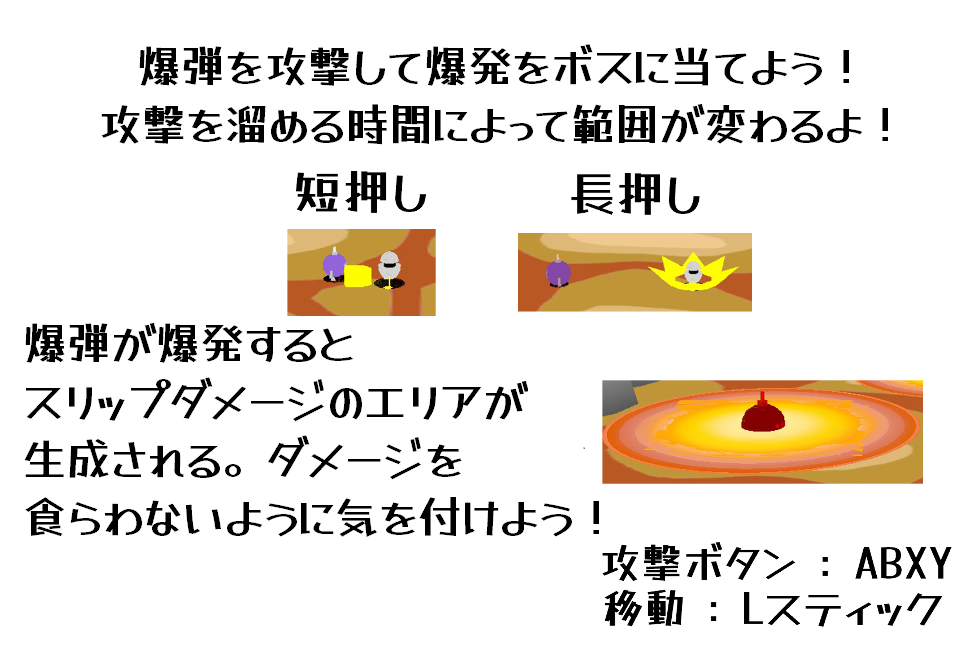
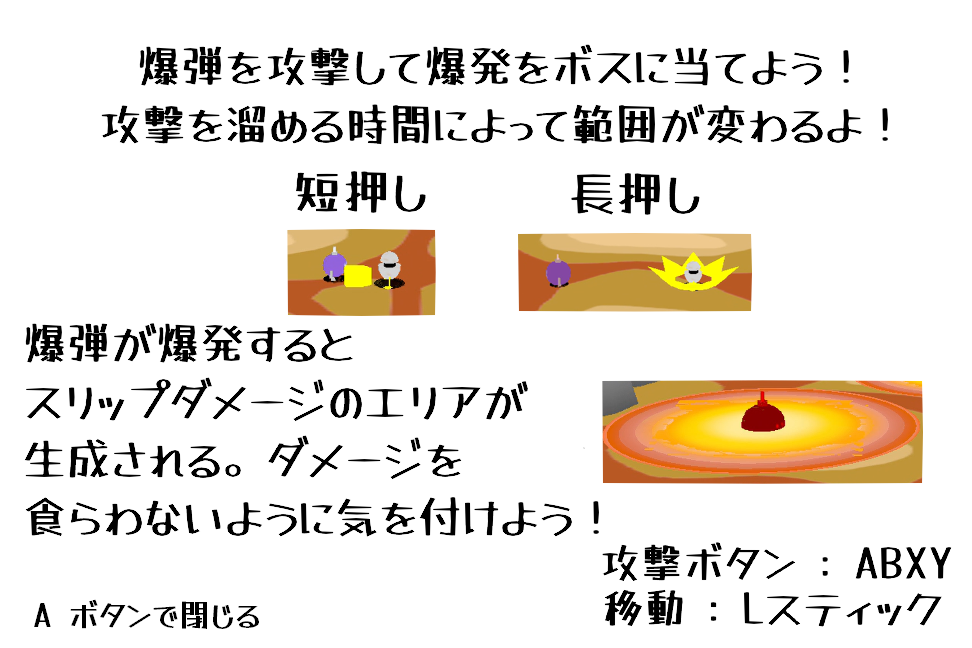
チュートリアルできた！

diff --git a/project/application/scene/PlayScene.cpp b/project/application/scene/PlayScene.cpp
@@ -4,8 +4,8 @@
 #include "InputManager.h"
 
 PlayScene::PlayScene (CameraOrganizer* camera, InputManager* inputManager, DxCommon* dxCommon) {
-	player_ = std::make_unique<Player>(inputManager, dxCommon);
-	boss_ = std::make_unique<Boss>(dxCommon, player_.get());
+	player_ = std::make_unique<Player> (inputManager, dxCommon);
+	boss_ = std::make_unique<Boss> (dxCommon, player_.get ());
 
 	//地面のモデル
 	ground_ = std::make_unique<Model> (dxCommon);
@@ -27,22 +27,26 @@ PlayScene::PlayScene (CameraOrganizer* camera, InputManager* inputManager, DxCom
 	//天球
 	skydome_ = std::make_unique<Model> (dxCommon);
 
+	//チュートリアル
+	tutorial_ = std::make_unique<Sprite> (dxCommon);
+	TextureManager::GetInstance ()->LoadTexture ("Resources/UI/tutorial.png", "tutorial");
+
 	camera_ = camera;
 	input_ = inputManager;
-	enemies_ = std::make_unique<EnemyManager>(dxCommon);
-	collisionManager_ = std::make_unique<CollisionManager>();
+	enemies_ = std::make_unique<EnemyManager> (dxCommon);
+	collisionManager_ = std::make_unique<CollisionManager> ();
 }
 
 PlayScene::~PlayScene () {
-	
+
 }
 
 void PlayScene::Initialize () {
 	nowScene_ = SceneLabel::Play;
 	isFinish_ = false;
-	player_->Initialize();
-	player_->ResetData();
-	boss_->Initialize();
+	player_->Initialize ();
+	player_->ResetData ();
+	boss_->Initialize ();
 
 	//地面のモデル
 	ground_->SetModelData ("ground");
@@ -89,67 +93,85 @@ void PlayScene::Initialize () {
 	skydome_->Initialize ();
 	skydome_->IsLighting (LightReflectionModel::HalfLambert);
 
+	tutorial_->SetID ("tutorial");
+	tutorial_->Initialize ({ 148.0f, 42.0f, 0.0f });
+	tutorial_->SetTexture ("tutorial");
+
 	camera_->AddCamera ("FollowCamera", CameraType::FollowCamera);
 	camera_->SetActiveCamera ("FollowCamera");
 	camera_->SetFollowTarget ("FollowCamera", player_->GetTransform ());
 
-	enemies_->Initialize(player_.get(), boss_.get());
+	enemies_->Initialize (player_.get (), boss_.get ());
 
-	bgm_.Initialize();
-	bgmHandle_ = bgm_.LoadSound("resources/Audio/BGM/Game.mp3");
-	bgm_.PlaySoundW(bgmHandle_, true);
+	tutorialFlag_ = true;
+
+	bgm_.Initialize ();
+	bgmHandle_ = bgm_.LoadSound ("resources/Audio/BGM/Game.mp3");
+	bgm_.PlaySoundW (bgmHandle_, true);
 }
 
 void PlayScene::Update () {
-	boss_->ImGuiControl();
-	player_->Update(camera_->GetVPMatrix());
-	boss_->Update(camera_->GetVPMatrix());
+	if (input_->GetRawInput ()->Trigger (VK_SPACE) || input_->GetGamePad()->TriggerButton(Button::A)){
+		tutorialFlag_ = false;
+	}
+
+	if (!tutorialFlag_) {
+		boss_->ImGuiControl ();
+		player_->Update (camera_->GetVPMatrix ());
+		boss_->Update (camera_->GetVPMatrix ());
+		enemies_->SetPos ({ boss_->GetPosition ().x,0.0f,boss_->GetPosition ().z });
+		enemies_->Update (camera_->GetVPMatrix ());
+
+		// [ 当たり判定 ]
+		collisionManager_->Begin ();
+		collisionManager_->SetColliders (&player_->GetAttackCollider ());
+		collisionManager_->SetColliders (&player_->GetPlayerBodyCollider ());
+		for (const auto& enemy : enemies_->GetEnemies ()) {
+			collisionManager_->SetColliders (&enemy->GetAttackCollider ());
+			collisionManager_->SetColliders (&enemy->GetBodyCollider ());
+		}
+		for (Collider* attackCollider : boss_->GetAttackColliders ()) {
+			collisionManager_->SetColliders (attackCollider);
+		}
+		collisionManager_->SetColliders (boss_->GetBodyCollider ());
+		collisionManager_->CheckAllCollisions ();
+
+		if (player_->GetIsDead ()) {
+			nextScene_ = SceneLabel::Gameover;
+			isFinish_ = true;
+			bgm_.StopSound (bgmHandle_);
+		}
+
+		if (boss_->GetClear ()) {
+			nextScene_ = SceneLabel::Clear;
+			isFinish_ = true;
+			bgm_.StopSound (bgmHandle_);
+		}
+	}
 	ground_->Update (camera_->GetVPMatrix ());
 	mountain_->Update (camera_->GetVPMatrix ());
 	stone_->Update (camera_->GetVPMatrix ());
 	stone2_->Update (camera_->GetVPMatrix ());
 	stone3_->Update (camera_->GetVPMatrix ());
 	skydome_->Update (camera_->GetVPMatrix ());
-	enemies_->SetPos ({ boss_->GetPosition ().x,0.0f,boss_->GetPosition ().z });
-	enemies_->Update(camera_->GetVPMatrix ());
-
-	// [ 当たり判定 ]
-	collisionManager_->Begin();
-	collisionManager_->SetColliders(&player_->GetAttackCollider());
-	collisionManager_->SetColliders(&player_->GetPlayerBodyCollider());
-	for (const auto& enemy : enemies_->GetEnemies()) {
-		collisionManager_->SetColliders(&enemy->GetAttackCollider());
-		collisionManager_->SetColliders(&enemy->GetBodyCollider());
-	}
-	for (Collider* attackCollider : boss_->GetAttackColliders()) {
-		collisionManager_->SetColliders(attackCollider);
-	}
-	collisionManager_->SetColliders(boss_->GetBodyCollider());
-	collisionManager_->CheckAllCollisions();
-
+	tutorial_->Update ();
 	camera_->Update ();
-
-	if (player_->GetIsDead()) {
-		nextScene_ = SceneLabel::Gameover;
-		isFinish_ = true;
-		bgm_.StopSound(bgmHandle_);
-	}
-
-	if (boss_->GetClear()) {
-		nextScene_ = SceneLabel::Clear;
-		isFinish_ = true;
-		bgm_.StopSound(bgmHandle_);
-	}
 }
 
 void PlayScene::Draw () {
+	
+	if(!tutorialFlag_){
+		player_->Draw ();
+		boss_->Draw ();
+		enemies_->Draw ();
+	}
 	skydome_->Draw ();
 	ground_->Draw ();
 	mountain_->Draw ();
 	stone_->Draw ();
-	player_->Draw ();
-	boss_->Draw ();
-	enemies_->Draw ();
 	stone3_->Draw ();
 	stone2_->Draw ();
+	if (tutorialFlag_) {
+		tutorial_->Draw ();
+	}
 }

diff --git a/project/application/scene/PlayScene.h b/project/application/scene/PlayScene.h
@@ -27,6 +27,9 @@ private:	//メンバ変数
 	std::unique_ptr<Model> stone2_ = nullptr;
 	std::unique_ptr<Model> stone3_ = nullptr;
 	std::unique_ptr<Model> skydome_ = nullptr;
+	std::unique_ptr<Sprite> tutorial_ = nullptr;
 	std::unique_ptr<EnemyManager>enemies_ = nullptr;
 	std::unique_ptr<CollisionManager>collisionManager_ = nullptr;
+
+	bool tutorialFlag_ = true;
 };
